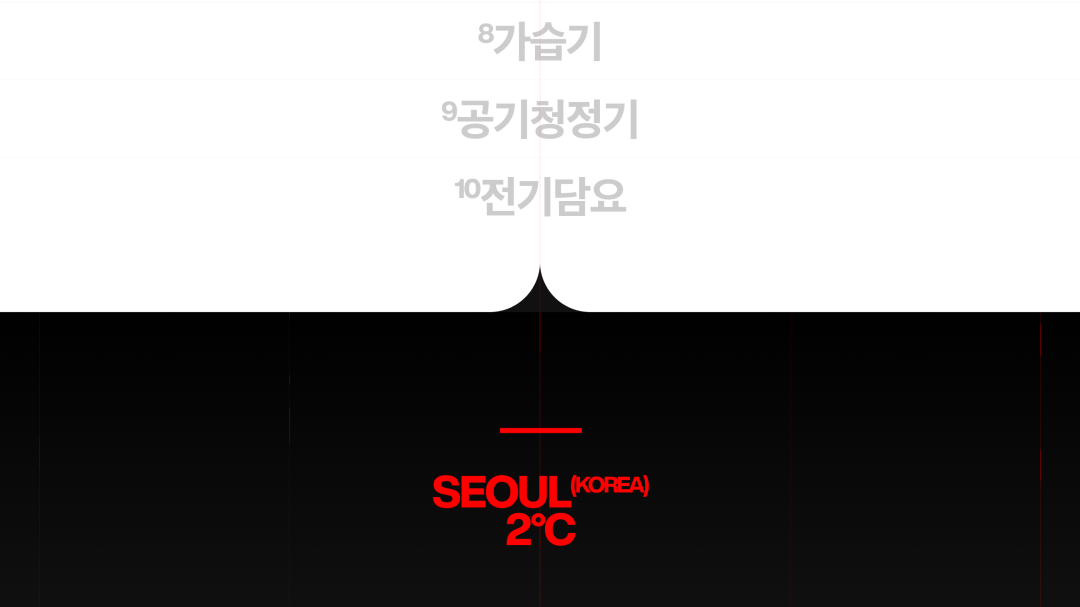
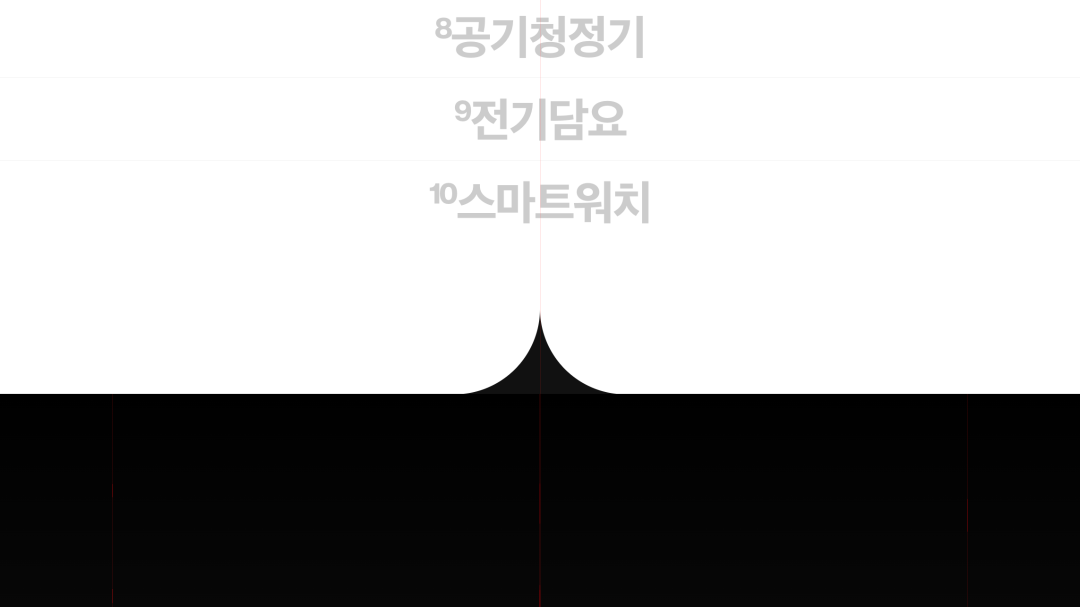
/

diff --git a/works/amazon-global-store.html b/works/amazon-global-store.html
@@ -15,6 +15,10 @@
     <link rel="stylesheet" crossorigin href="https://cdn.jsdelivr.net/gh/orioncactus/pretendard@v1.3.9/dist/web/static/pretendard.css" />
     <link rel="stylesheet" href="../assets/styles.css">
     <link rel="icon" type="image/svg+xml" href="../favicon.svg">
+    <style>
+      .project-image-detail--centered { display: block; width: 500px; max-width: 100%; height: auto; margin-left: auto; margin-right: auto; aspect-ratio: 1/1; object-fit: contain; }
+      .project-image-detail-wrap--bg-white { width: 100%; max-width: 1080px; background: #fff; padding: 1.5rem; display: flex; align-items: center; justify-content: center; }
+    </style>
 </head>
 <body class="project-detail-page">
     <div id="shared-nav"></div>
@@ -30,9 +34,9 @@
                     <div class="project-date">2021</div>
                     <h1 class="section-title animated-section-title" id="animatedTitle" data-title="Amazon Global Store">Amazon Global Store</h1>
                     <div class="hero-info-description">
-                        <p><span class="prefix-char">+</span> 아마존 글로벌 상품을 국내에 소개하는 크로스보더 쇼핑 서비스예요<br><span class="prefix-char">+</span> 배송·결제·언어 현지화와 상품 검색·필터 UX를 설계해요</p>
+                        <p><span class="prefix-char">+</span> Amazon Global Store는 11번가 안에서 미국 아마존의 수천만 개 상품을 직접 구매할 수 있도록 연결한 글로벌 커머스 확장 프로젝트예요.<br><span class="prefix-char">+</span> 국내 고객이 익숙한 11번가 환경에서 해외 직구를 더 편리하고 안전하게 경험할 수 있도록 배송·혜택·UI를 통합 설계했어요.</p>
                     </div>
-                    <a href="#" target="_blank" rel="noopener noreferrer" class="btn-cta">SITE<span class="btn-cta__icon-wrap"><span class="material-symbols-outlined btn-cta__icon" aria-hidden="true">keyboard_arrow_right</span></span></a>
+                    <a id="amazon-site-link" href="https://www.11st.co.kr/amazon/main" target="_blank" rel="noopener noreferrer" class="btn-cta">SITE<span class="btn-cta__icon-wrap"><span class="material-symbols-outlined btn-cta__icon" aria-hidden="true">keyboard_arrow_right</span></span></a>
                 </div>
             </div>
         </section>
@@ -41,13 +45,23 @@
         <section class="section project-details-section">
             <div class="container">
                 <div class="project-details-content">
-                    <img src="images/AmazonGlobalStore/Details01.svg" alt="Amazon Global Store 디테일 1" class="project-image project-image-detail" onerror="this.onerror=null;this.src='https://via.placeholder.com/1080x607/111111/333333?text=Amazon+Global+Store+01'">
+                    <img src="images/amazon/Details01.png" alt="Global Access" class="project-image project-image-detail" onerror="this.onerror=null;this.src='https://via.placeholder.com/1080x607/111111/333333?text=Global+Access'">
                     <div class="section-body">
-                        <p><strong>배경</strong> — 11번가를 통해 아마존 USA·EU 등 해외 상품을 구매할 수 있는 통합 채널을 구축하는 프로젝트예요. 환율·관세·배송 기간·AS 정책 등 크로스보더 쇼핑 특유의 복잡성을 사용자에게 직관적으로 전달하고, 신뢰감을 높이는 UI·커뮤니케이션 전략이 필요했어요. 기존 11번가 경험과 아마존 브랜드 톤을 조화시키면서, 글로벌 상품의 가치를 부각하는 정보 구조를 설계했어요.</p>
+                        <p><strong>Global Access</strong> — 수천만 개 상품을 국내 UX 안으로 연결. PC, 패션, 가전, 주방용품, 장난감 등 30개 이상의 카테고리를 통해 국내 최대 수준의 해외 상품군을 제공해요. 특히 수백만 권의 도서를 직접 구매할 수 있도록 구성해 광범위한 북스토어 경험을 구현했어요. 해외 플랫폼을 별도로 이용하지 않아도 11번가 웹과 앱 안에서 자연스럽게 글로벌 쇼핑이 가능하도록 설계했어요.</p>
                     </div>
-                    <img src="images/AmazonGlobalStore/Details02.svg" alt="Amazon Global Store 디테일 2" class="project-image project-image-detail" onerror="this.onerror=null;this.src='https://via.placeholder.com/1080x607/111111/333333?text=Amazon+Global+Store+02'">
+                    <img src="images/amazon/Details02.png" alt="Seamless Shipping" class="project-image project-image-detail" onerror="this.onerror=null;this.src='https://via.placeholder.com/1080x607/111111/333333?text=Seamless+Shipping'">
                     <div class="section-body">
-                        <p><strong>UX 설계</strong> — <em>검색·필터</em>는 카테고리·브랜드·가격대·배송 옵션을 계층적으로 구성해 해외 상품 탐색을 용이하게 해요. <em>상품 상세</em>에서는 원화 환산 가격·예상 배송일·관세 정보를 명시하고, 리뷰·Q&A 등 신뢰 요소를 배치했어요. <em>결제·배송</em> 플로우는 수입 통관 정보 입력·배송 주소 검증·환불 정책 안내를 단계별로 안내해요. 다국어·다통화 지원과 접근성 지침을 반영해 글로벌 사용자 경험을 최적화했어요.</p>
+                        <p><strong>Seamless Shipping</strong> — 배송 장벽을 낮춘 구조 설계. 무료 국제 배송과 합리적인 배송 기간(평균 6~10영업일, 일부 상품 4~6영업일)을 통해 직구의 진입 장벽을 낮췄어요. 우주패스 가입 고객은 최소 구매 금액 제한 없이 무료 배송을 제공하고, 일반 고객도 일정 금액 이상 구매 시 무료 배송을 지원해 접근성을 높였어요. 글로벌 구매 경험을 ‘특별한 선택’이 아닌 ‘일상적 쇼핑’으로 전환하는 데 초점을 맞췄어요.</p>
+                    </div>
+                    <img src="images/amazon/Details03.png" alt="Customer Obsession" class="project-image project-image-detail" onerror="this.onerror=null;this.src='https://via.placeholder.com/1080x607/111111/333333?text=Customer+Obsession'">
+                    <div class="section-body">
+                        <p><strong>Customer Obsession</strong> — 공동 철학 기반의 경험 설계. 아마존과 11번가는 ‘고객제일주의’라는 공통 철학을 바탕으로 협업했어요. 아마존의 글로벌 리테일 경험과 11번가의 국내 시장 이해도를 결합해, 보다 편리하고 안전한 쇼핑 환경을 구현했어요. 기존 11번가 UI 안에서 글로벌 스토어를 통합해 고객 학습 비용을 최소화했어요.</p>
+                    </div>
+                    <div class="project-image-detail-wrap project-image-detail-wrap--bg-white">
+                        <img src="images/amazon/Details04.gif" alt="Launch Momentum" class="project-image project-image-detail project-image-detail--centered" onerror="this.onerror=null;this.src='https://via.placeholder.com/500x500/111111/333333?text=Launch+Momentum'" width="500" height="500">
+                    </div>
+                    <div class="section-body">
+                        <p><strong>Launch Momentum</strong> — 론칭 프로모션과 가격 경쟁력 강화. 론칭을 기념해 PC·패션·생활용품·아마존 전자기기 등 다양한 카테고리에서 최대 30~50% 할인 프로모션을 진행했어요. 수천 개의 딜을 통해 가격 경쟁력을 강조하며 초기 트래픽과 전환을 동시에 확보했어요. 단기 프로모션을 넘어, 향후 새로운 서비스와 상품 확장을 지속하는 글로벌 협업 구조를 마련했어요.</p>
                     </div>
                 </div>
             </div>
@@ -60,5 +74,13 @@
 
     <script src="../assets/project-nav-config.js"></script>
     <script src="../assets/script.js"></script>
+    <script>
+      (function() {
+        var link = document.getElementById('amazon-site-link');
+        if (link && window.matchMedia('(max-width: 768px)').matches) {
+          link.href = 'https://m.11st.co.kr/page/main/ahome';
+        }
+      })();
+    </script>
 </body>
 </html>

diff --git a/labs/TrendingSearches.html b/labs/TrendingSearches.html
@@ -29,7 +29,7 @@
                     <h1 class="section-title animated-section-title" id="animatedTitle" data-title="Popular Shopping Keywords">Popular Shopping Keywords</h1>
                     <div class="hero-info-description">
                         <p><span class="prefix-char">+</span> 네이버 쇼핑 검색 API로 수집한 인기 키워드 10위 랭킹이에요.</p>
-                        <p><span class="prefix-char">+</span> GitHub Actions로 4시간마다 네이버 쇼핑 API를 호출해 자동 수집해요.</p>
+                        <p><span class="prefix-char">+</span> GitHub Actions로 매일 12시(KST) 1회 네이버 쇼핑 API를 호출해 자동 수집해요.</p>
                     </div>
                     <a href="TrendingSearches/index.html" target="_blank" rel="noopener noreferrer" class="btn-cta">SITE<span class="btn-cta__icon-wrap"><span class="material-symbols-outlined btn-cta__icon" aria-hidden="true">keyboard_arrow_right</span></span></a>
                 </div>
@@ -42,11 +42,11 @@
                 <div class="project-details-content">
                     <img src="./images/TrendingSearches/Details01.gif" alt="POPULAR SHOPPING KEYWORDS 디테일 1" class="project-image project-image-detail" onerror="this.onerror=null;this.src='https://via.placeholder.com/1080x607/111111/333333?text=Lab+2+01'">
                     <div class="section-body">
-                        <p><strong>인기 키워드 10위 랭킹</strong> — <a href="https://developers.naver.com/docs/serviceapi/search/shopping/shopping.md" target="_blank" rel="noopener">네이버 쇼핑 검색 API</a>로 후보 키워드별 검색 결과 수를 조회해 상위 10개를 순위로 정리해요. GitHub Actions로 4시간마다 API를 호출해 자동 수집하고, 결과를 <code>trends-data</code> 브랜치의 <code>naver_shopping_sample.json</code>에 갱신해요.</p>
+                        <p><strong>인기 키워드 10위 랭킹</strong> — <a href="https://developers.naver.com/docs/serviceapi/search/shopping/shopping.md" target="_blank" rel="noopener">네이버 쇼핑 검색 API</a>로 후보 키워드별 검색 결과 수를 조회해 상위 10개를 순위로 정리해요. GitHub Actions로 매일 12시(KST) 1회 API를 호출해 자동 수집하고, 결과를 <code>trends-data</code> 브랜치의 <code>naver_shopping_sample.json</code>에 갱신해요.</p>
                     </div>
                     <img src="./images/TrendingSearches/Details02.png" alt="POPULAR SHOPPING KEYWORDS 디테일 2" class="project-image project-image-detail" onerror="this.onerror=null;this.src='https://via.placeholder.com/1080x607/111111/333333?text=Lab+2+02'">
                     <div class="section-body">
-                        <p><strong>뷰어 페이지</strong> — 4시간마다 갱신되는 위 JSON을 <code>trends-data</code> 브랜치에서 fetch로 불러와 10위 랭킹을 보여줘요. 키워드를 클릭하면 네이버 쇼핑 검색 결과로 이동해요.</p>
+                        <p><strong>뷰어 페이지</strong> — 매일 12시에 갱신되는 위 JSON을 <code>trends-data</code> 브랜치에서 fetch로 불러와 10위 랭킹을 보여줘요. 키워드를 클릭하면 네이버 쇼핑 검색 결과로 이동해요.</p>
                     </div>
                 </div>
             </div>

diff --git a/index.html b/index.html
@@ -118,7 +118,7 @@
                     </a>
                     <a href="works/amazon-global-store.html" class="portfolio-item" data-date="2021">
                         <div class="portfolio-thumbnail">
-                            <img src="works/images/AmazonGlobalStore/thumbnail.png" alt="Amazon Global Store" onerror="this.onerror=null;this.src='https://via.placeholder.com/300x533/111111/ffffff?text=Amazon+Global+Store'">
+                            <img src="works/images/amazon/thumbnail.png" alt="Amazon Global Store" onerror="this.onerror=null;this.src='https://via.placeholder.com/300x533/111111/ffffff?text=Amazon+Global+Store'">
                         </div>
                         <div class="portfolio-info">
                             <div class="portfolio-title-wrapper">
